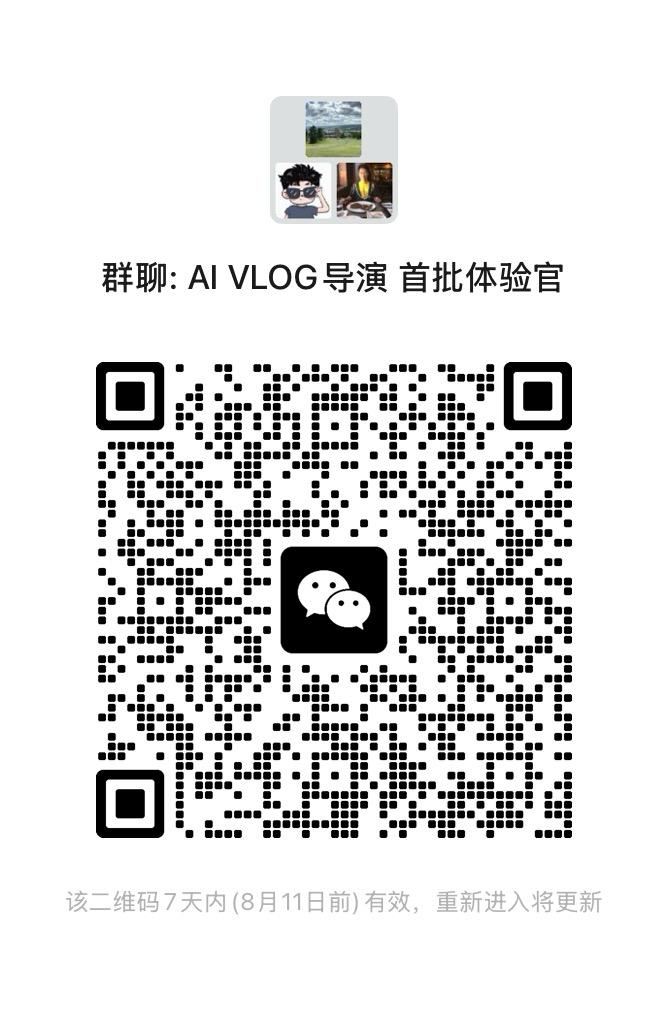
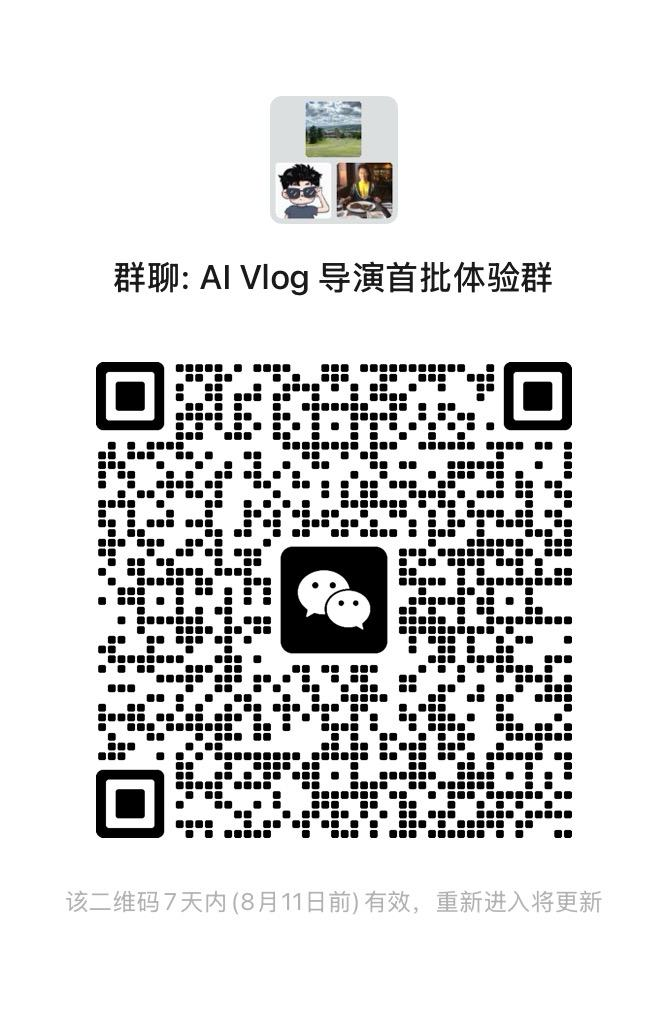
Update post-signup WeChat group QR image.

Changed region(s): [[0.1497, 0.337, 0.8683, 0.8271], [0.1497, 0.2451, 0.8383, 0.3063]]

diff --git a/index.html b/index.html
@@ -163,7 +163,7 @@
       <p class="wechat-hint" data-i18n="wechatHint">扫码进群，和我们一起打磨 Javen</p>
       <img
         class="wechat-qr"
-        src="assets/wechat-group-qr.jpg"
+        src="assets/wechat-group-qr.jpg?v=20260804-2"
         alt="微信群二维码"
         width="668"
         height="1012"
